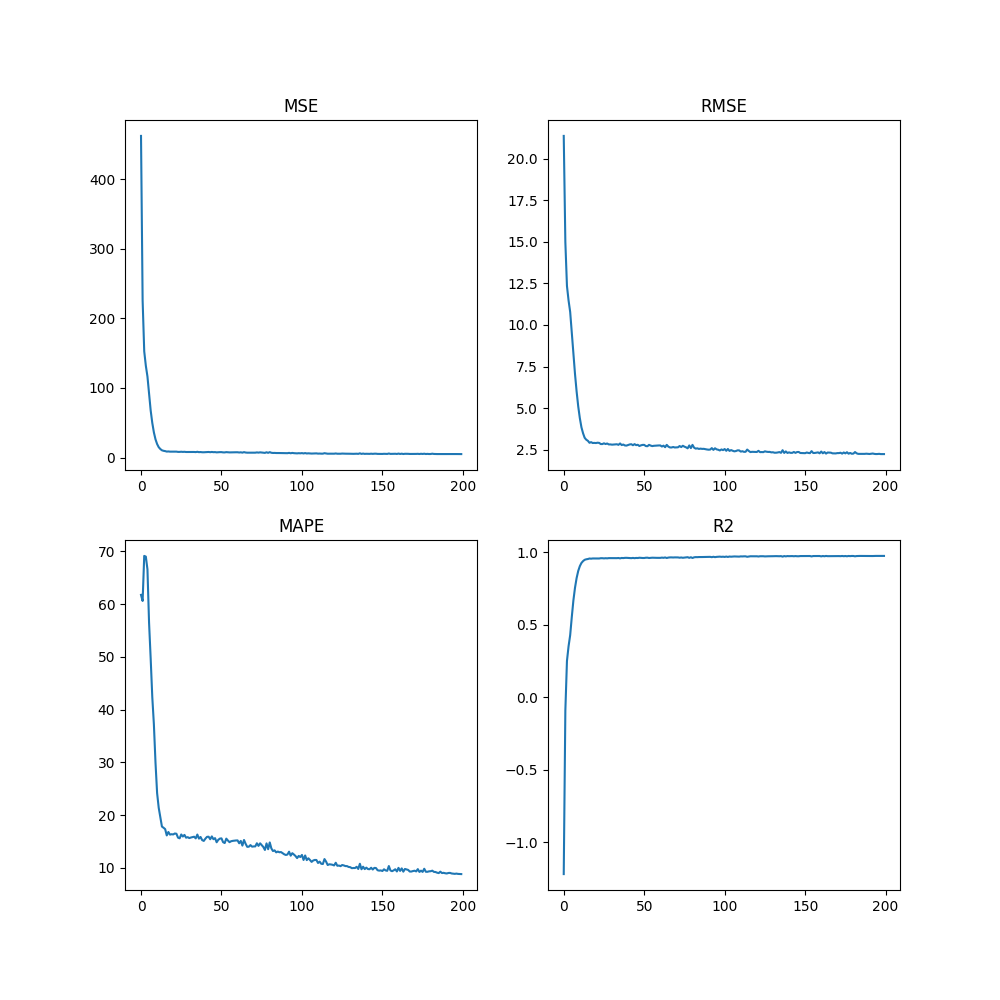
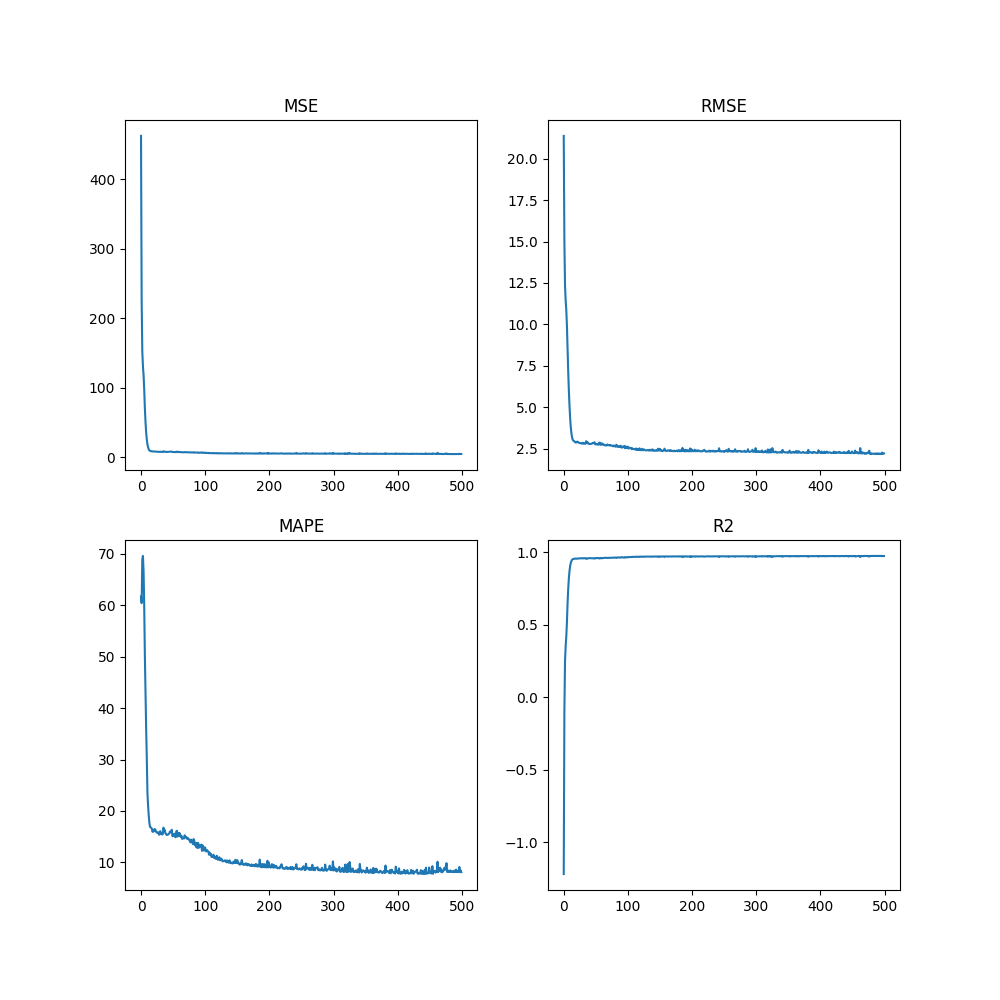
train and test error values

diff --git a/train.py b/train.py
@@ -21,7 +21,7 @@ np.random.seed(seed_val)
 random.seed(seed_val)
 
 learning_rate = 1e-3
-num_epochs = 200
+num_epochs = 500
 
 exp_name = "YellowPoplar"
 train_loader, test_loader, [sc, sct] = train_test_loader(exp_name)
@@ -45,8 +45,10 @@ for epoch in range(num_epochs):
         if i % 100 == 0:
             print(f'Epoch: {epoch+1}, train loss: {loss.item()}')
     all_loss, gt, pred = validate(model, test_loader, sct)
+    train_loss, train_gt, train_pred = validate(model, train_loader, sct)
     # print(f"test loss: {all_loss}")
-    print(f"mse_l: {all_loss[0].item()}, rmse_l: {all_loss[1].item()}, mape_l: {all_loss[2].item()}, r2_l: {all_loss[3].item()}")
+    print(f"TRAIN: mse_l: {train_loss[0].item()}, rmse_l: {train_loss[1].item()}, mape_l: {train_loss[2].item()}, r2_l: {train_loss[3].item()}")
+    print(f"TEST : mse_l: {all_loss[0].item()}, rmse_l: {all_loss[1].item()}, mape_l: {all_loss[2].item()}, r2_l: {all_loss[3].item()}")
     mse_l.append(all_loss[0])
     rmse_l.append(all_loss[1])
     mape_l.append(all_loss[2])
